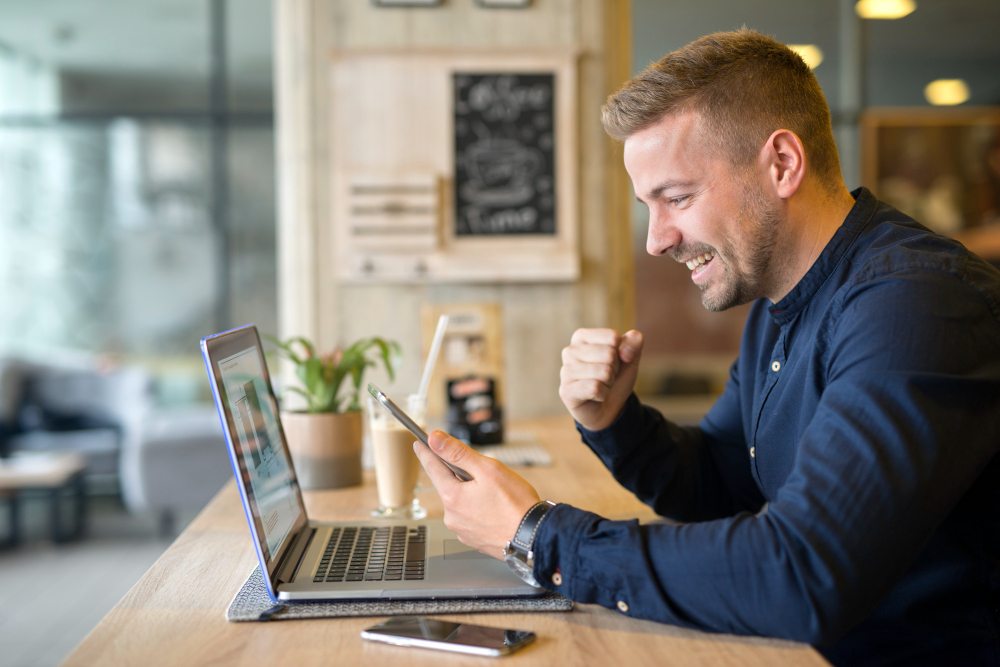
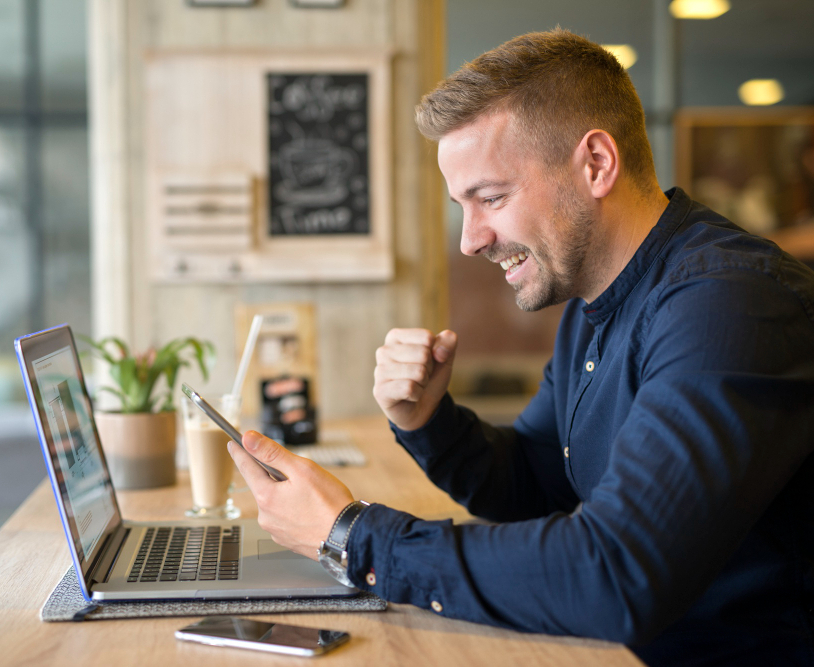
refactor: alterado imagem principal

diff --git a/src/app/seja-franqueado/Section01/index.tsx b/src/app/seja-franqueado/Section01/index.tsx
@@ -1,46 +1,74 @@
 import Image from 'next/legacy/image'
 import Link from 'next/link'
 
+import { Balloon } from '@/components/Balloon'
 import { KnowMore } from '@/components/KnowMore'
 
 export const Section01 = () => {
   return (
-    <section className='relative h-screen max-h-[51rem] overflow-x-hidden bg-background-400'>
-      <div className='absolute left-[-8.3rem] top-[-5.3rem] z-10 h-screen max-h-[56.3rem] w-screen max-w-[56.3rem] rounded-b-full rounded-tl-full bg-white'>
-        <div className='absolute bottom-60 right-40 flex flex-col gap-6'>
-          <h1 className='max-w-md text-3xl'>
-            {`Você tem a oportunidade de `}
-            <span className='bg-gradient-to-tr from-primaryDark-400 to-primaryLight-400 bg-clip-text font-semibold text-transparent'>
-              conectar pessoas aos seus novos lugares favoritos
-            </span>
-            {' e faturar alto por isso.'}
-          </h1>
-          <h2 className='max-w-md text-2xl font-semibold'>Parece bom? E é mesmo!</h2>
-          <p className='max-w-md text-lg'>
-            Nossos licenciados são muito bem remunerados por assumir a responsabilidade de
-            apresentar ao público a melhor experiência do seu dia e ajudar a melhorar o movimento de
-            centenas de estabelecimentos.
-          </p>
-          <Link
-            href='#form'
-            className='w-fit rounded-lg bg-tertiary-400 p-2 text-white hover:bg-gradient-to-tr hover:from-primaryDark-400 hover:to-primaryLight-400'
-          >
-            Quero saber mais!
-          </Link>
+    <section className='flex items-center justify-center bg-background-400 pb-16 pt-32 sm:pt-36'>
+      <div className='flex w-full max-w-7xl grid-cols-2 px-10 sm:px-20 lg:grid lg:h-[40rem]'>
+        <div className='relative flex h-full w-full flex-col items-center justify-center rounded-3xl bg-white p-10 lg:rounded-e-none'>
+          <div className='flex flex-col gap-6'>
+            <h1 className='max-w-md text-2xl md:text-3xl'>
+              Você tem a oportunidade de{' '}
+              <span className='bg-gradient-to-tr from-primaryDark-400 to-primaryLight-400 bg-clip-text font-semibold text-transparent'>
+                conectar pessoas aos seus novos locais favoritos
+              </span>{' '}
+              e faturar alto por isso.
+            </h1>
+            <h2 className='text-1xl max-w-md font-semibold md:text-2xl'>Parece bom? E é mesmo!</h2>
+            <p className='text-md max-w-md md:text-lg'>
+              Nossos licenciados são muito bem remunerados por assumir a responsabilidade de
+              apresentar ao público a melhor experiência do seu dia e ajudar a melhorar o movimento
+              de centenas de estabelecimentos.
+            </p>
+            <Link
+              href='#form'
+              className='w-fit rounded-lg bg-tertiary-400 p-2 text-white hover:bg-gradient-to-tr hover:from-primaryDark-400 hover:to-primaryLight-400'
+            >
+              Quero saber mais!
+            </Link>
+          </div>
+          <div className='absolute bottom-[-5rem] right-[50%] z-20 h-24 w-24 translate-x-[50%] sm:bottom-[-7rem] sm:h-32 sm:w-32 lg:bottom-[-4rem] lg:right-[-4rem] lg:translate-x-0'>
+            <KnowMore className='h-24 w-24 lg:h-32 lg:w-32' />
+          </div>
+          <div className='absolute left-[-3rem] top-[-3rem] hidden flex-col gap-2 sm:flex'>
+            <div className='flex gap-2'>
+              <Balloon variant='br' color='secondary' size='20' />
+              <Balloon variant='bl' color='outlineTertiary' size='20' />
+            </div>
+            <div className='flex'>
+              <Balloon variant='tr' color='outlineTertiary' size='20' />
+            </div>
+          </div>
+          <div className='absolute right-[-2rem] top-[-2rem] flex flex-col gap-2 sm:hidden'>
+            <div className='flex gap-2'>
+              <Balloon variant='br' color='outlinePrimaryLight' size='16' />
+              <Balloon variant='bl' color='secondary' size='16' />
+            </div>
+            <div className='flex justify-end'>
+              <Balloon variant='tl' color='gradient' size='16' />
+            </div>
+          </div>
         </div>
-        <div className='absolute bottom-40 right-[-3rem] z-20 h-32 w-32'>
-          <KnowMore />
-        </div>
-      </div>
-      <div className='absolute right-[-2rem] top-0 h-screen max-h-[48rem] w-screen max-w-[48rem]'>
-        <div className='flex h-full w-full flex-col gap-6'>
+        <div className='relative hidden h-full w-full flex-col gap-6 lg:flex'>
           <Image
-            src='/assets/images/franchisee.png'
-            alt='Homem vestido com traje social segurando um iPad em mãos'
+            src='/assets/images/franchisee.jpg'
+            alt='Freelancer feliz com tablet e laptop em uma cafeteria'
             objectFit='cover'
             layout='fill'
-            className='rounded-b-full'
+            className='rounded-e-3xl'
           />
+          <div className='absolute bottom-[-3.5rem] right-[-3.5rem] flex flex-col gap-2'>
+            <div className='flex justify-end gap-2'>
+              <Balloon variant='bl' color='gradient' size='20' />
+            </div>
+            <div className='flex gap-2'>
+              <Balloon variant='tr' color='secondary' size='20' />
+              <Balloon variant='tl' color='outlinePrimaryLight' size='20' />
+            </div>
+          </div>
         </div>
       </div>
     </section>

diff --git a/src/app/seja-franqueado/Section01 - Designer/index.tsx b/src/app/seja-franqueado/Section01 - Designer/index.tsx
@@ -1,0 +1,52 @@
+import Image from 'next/legacy/image'
+import Link from 'next/link'
+
+import { KnowMore } from '@/components/KnowMore'
+
+export const Section01 = () => {
+  return (
+    <section className='relative h-screen max-h-[51rem] overflow-x-hidden bg-background-400'>
+      <div className='absolute left-[-6rem] top-[-5.3rem] z-10 h-screen max-h-[56.3rem] w-[60%] rounded-b-[50%]  bg-white'>
+        <div className='flex h-full w-full flex-col items-center justify-center gap-6 p-10 pl-32'>
+          <h1 className='max-w-md text-3xl'>
+            {`Você tem a oportunidade de `}
+            <span className='bg-gradient-to-tr from-primaryDark-400 to-primaryLight-400 bg-clip-text font-semibold text-transparent'>
+              conectar pessoas aos seus novos lugares favoritos
+            </span>
+            {' e faturar alto por isso.'}
+          </h1>
+          <h2 className='w-full max-w-md text-left text-2xl font-semibold'>
+            Parece bom? E é mesmo!
+          </h2>
+          <p className='max-w-md text-lg'>
+            Nossos licenciados são muito bem remunerados por assumir a responsabilidade de
+            apresentar ao público a melhor experiência do seu dia e ajudar a melhorar o movimento de
+            centenas de estabelecimentos.
+          </p>
+          <div className='flex w-full max-w-md justify-start'>
+            <Link
+              href='#form'
+              className='w-fit rounded-lg bg-tertiary-400 p-2 text-white hover:bg-gradient-to-tr hover:from-primaryDark-400 hover:to-primaryLight-400'
+            >
+              Quero saber mais!
+            </Link>
+          </div>
+        </div>
+      </div>
+      <div className='absolute right-[-6rem] top-0 h-screen max-h-[48rem] w-[60%]'>
+        <div className='flex h-full w-full flex-col gap-6'>
+          <Image
+            src='/assets/images/franchisee.png'
+            alt='Homem vestido com traje social segurando um iPad em mãos'
+            objectFit='cover'
+            layout='fill'
+            className='rounded-b-[50%]'
+          />
+        </div>
+      </div>
+      <div className='absolute bottom-40 right-[40%] z-20 h-32 w-32 translate-x-[-50%]'>
+        <KnowMore />
+      </div>
+    </section>
+  )
+}

diff --git a/src/app/seja-franqueado/page.tsx b/src/app/seja-franqueado/page.tsx
@@ -1,6 +1,6 @@
 import { Metadata } from 'next'
 
-import { Section01 } from './Section01 Teste'
+import { Section01 } from './Section01'
 import { Section02 } from './Section02'
 import { Section03 } from './Section03'
 import { Section04 } from './Section04'
